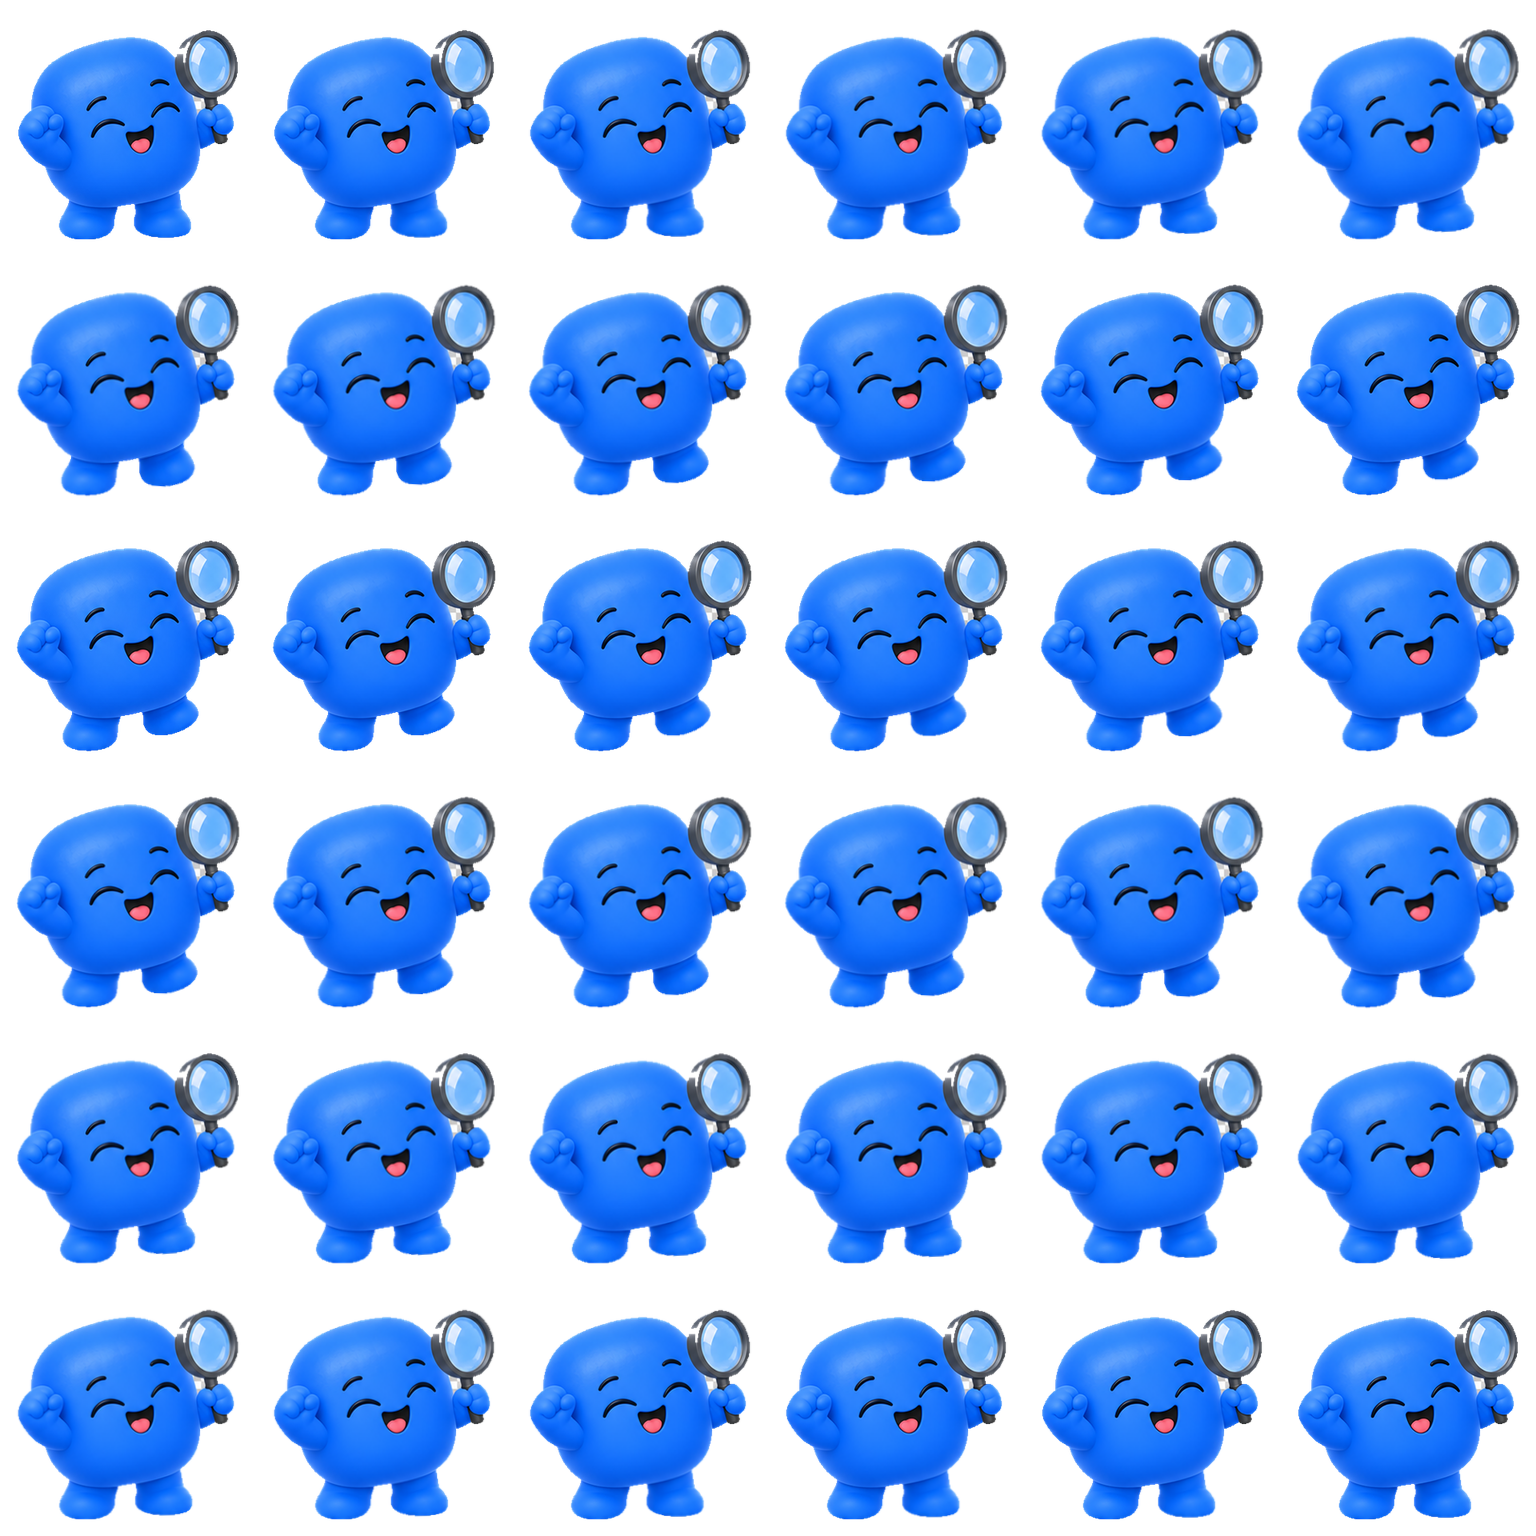
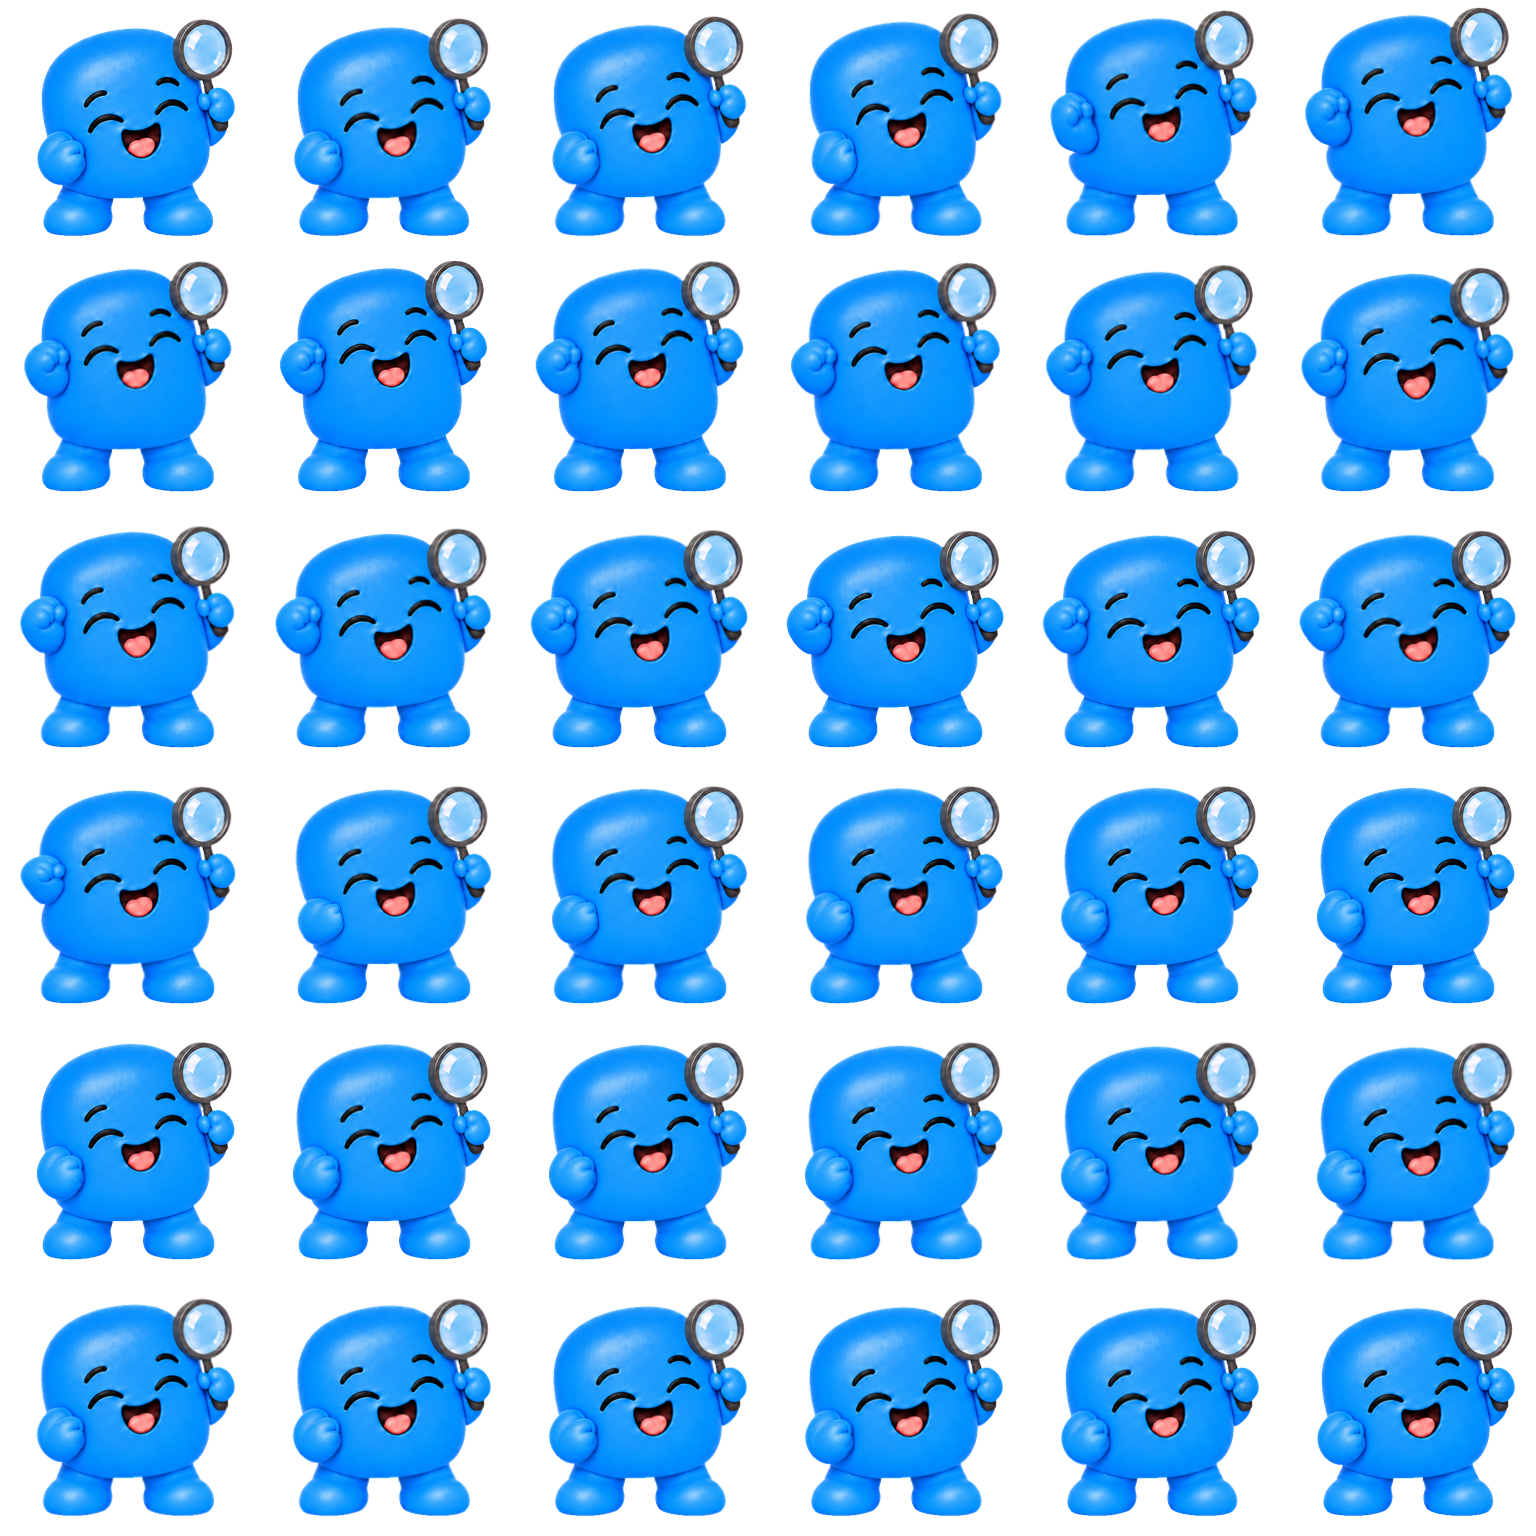
Give the cheer a real cycle, from the corrected success sheet
The celebration was the one state the approved artwork could not loop.
Only two of its four poses shared an expression, so the sequence was
[0,1,0]: out to one pose over twelve frames, back the same way over
twenty-four. That is the bounce the whole animation pass set out to
remove, and no amount of retiming fixes it — a two-pose cycle has only
one path and must retrace it.

The corrected sheet supplies four poses that hold one expression, so the
cheer now runs [0,1,2,3,0] and never repeats a frame. Measured as "how
far is each frame from the nearest frame that is not its own neighbour",
in units of one frame-to-frame step:

  before  0.42 steps  (worst 0.00 — bit-identical twins in the loop)
  after   1.33 steps  (worst 0.54)

The other three states sit at 1.92-2.25, so the cheer is now in the same
family; it stays the tightest of the four because a bounce genuinely
does pass near itself.

Sheets land one at a time, so each state picks its own source at build
time. The gate is the silhouette-to-torso ratio, which decides both
whether a square cell can hold the body at full size and the magnifier
at once, and whether optical flow can follow the magnifier between poses
instead of rendering two of them. The approved art measures 1.03-1.06
and the corrected success sheet 1.14; scan, greeting and concern still
measure 1.53-1.58 and keep the approved 320px keys until they are
redrawn. MAX_SILHOUETTE_RATIO sits at 1.4, clear of both groups.
[…]

diff --git a/scripts/mascot_keys.py b/scripts/mascot_keys.py
@@ -50,6 +50,20 @@ MIN_COLUMN = 3
 #: Narrower than this and a span is a keying artefact, not a character.
 MIN_POSE_WIDTH = 60
 
+#: How much wider than the torso the whole character is allowed to be before a
+#: sheet is unusable.
+#:
+#: This is the number the first four sheets failed on, and it is the one that
+#: decides whether a square cell can hold the body at full size and the
+#: magnifier at once. The approved poses sit at 1.03-1.06 — the magnifier is
+#: held in close — and the rejected sheets at 1.84-2.02, with the arm at full
+#: reach. Past roughly 1.4 there is no framing that keeps the character the
+#: size he ships at without cutting the magnifier off at the cell edge, and the
+#: magnifier travels so far between poses that optical flow renders two of
+#: them. The gate sits well clear of both groups so it never has to be argued
+#: about.
+MAX_SILHOUETTE_RATIO = 1.4
+
 
 def cutout(path):
     """Key the chroma green, using the escalation sheet's keyer exactly.
@@ -103,12 +117,13 @@ def _torso(alpha, radius):
 
 
 def _anchor(alpha, x0, x1):
-    """Where this pose stands: the centre of its feet, and the ground line."""
+    """Where this pose stands: the centre of its feet, the ground line, and the
+    highest pixel it reaches."""
     window = alpha[:, x0:x1]
     rows, _ = np.nonzero(window > 8)
     ground = rows.max() + 1
     _, feet_x = np.nonzero(window[ground - 40:ground, :] > 8)
-    return x0 + feet_x.mean(), ground
+    return x0 + feet_x.mean(), ground, rows.min()
 
 
 def _crop(keyed, pose, window, cell):
@@ -121,6 +136,30 @@ def _crop(keyed, pose, window, cell):
     top = int(round(pose['ground'] + window * (1 - FEET_FRACTION) - window))
     cropped = keyed.crop((left, top, left + window, top + window))
     return cropped.resize((cell, cell), Image.Resampling.LANCZOS)
+
+
+def sheet_ratio(path):
+    """How much wider than his torso the character is on this sheet.
+
+    Returned rather than asserted so the caller can fall back to older artwork
+    instead of failing the build: sheets land one at a time, and a state whose
+    replacement is not ready yet should keep the atlas it already has.
+    """
+    keyed = cutout(path)
+    alpha = np.asarray(keyed)[:, :, 3]
+    band_height = alpha.shape[0] // 2
+    ratios = []
+    for band in range(2):
+        strip = alpha[band * band_height:(band + 1) * band_height, :]
+        occupied = (strip > 8).sum(axis=0) >= MIN_COLUMN
+        for x0, x1 in _spans(occupied):
+            pose = strip[:, x0:x1]
+            rows, cols = np.nonzero(pose > 8)
+            silhouette = max(cols.max() - cols.min() + 1, rows.max() - rows.min() + 1)
+            torso = _torso(pose, 45)
+            if torso:
+                ratios.append(silhouette / torso)
+    return float(np.median(ratios)) if ratios else float('inf')
 
 
 def load_sheet(path, cell, expected=None):
@@ -141,10 +180,11 @@ def load_sheet(path, cell, expected=None):
         strip = alpha[top:bottom, :]
         occupied = (strip > 8).sum(axis=0) >= MIN_COLUMN
         for x0, x1 in _spans(occupied):
-            centre, ground = _anchor(strip, x0, x1)
+            centre, ground, highest = _anchor(strip, x0, x1)
             found.append({
                 'centre': centre,
                 'ground': top + ground,
+                'top': top + highest,
                 'bbox': x1 - x0,
                 'span': (x0, x1),
             })
@@ -173,6 +213,19 @@ def load_sheet(path, cell, expected=None):
             for pose in found]))
         # Too big on screen means the window was too tight: widen it.
         window = max(cell // 4, int(round(window * (measured / target) ** 0.6)))
+
+    # The torso sets the scale, but the tallest pose sets the floor: a cheer
+    # that reaches higher than the others would have its raised arms cut off at
+    # the top of the cell, which is the one thing worse than a slightly small
+    # character. Whichever is larger wins, so the size follows the artwork
+    # rather than a constant, and no sheet can clip whatever its poses do.
+    #
+    # The 2% is not slack for its own sake: sizing the window to exactly the
+    # measured reach leaves the topmost pixel on the cell's edge, and the
+    # Lanczos resize to the atlas cell then spreads it over the boundary. Two
+    # percent is about four points at this scale — invisible, and enough.
+    reach = max((pose['ground'] - pose['top']) for pose in found) * 1.02
+    window = max(window, int(np.ceil(reach / FEET_FRACTION)))
 
     poses = [_crop(keyed, pose, window, cell) for pose in found]
     torso = float(np.median([

diff --git a/scripts/interpolate-mascot-3d.py b/scripts/interpolate-mascot-3d.py
@@ -7,6 +7,7 @@ from pathlib import Path
 import cv2
 import numpy as np
 from PIL import Image
+from mascot_keys import MAX_SILHOUETTE_RATIO, load_sheet, sheet_ratio
 from mascot_motion import breathe, preview, validate_budget
 
 ROOT = Path(__file__).resolve().parents[1]
@@ -15,6 +16,25 @@ CELL = 256
 COUNT = 36
 GRID = 6
 NAMES = ['scan', 'greeting', 'success', 'concern']
+#: How many poses a replacement sheet carries, and the cycle each one enables.
+#: Asserted rather than discovered, so a sheet that silently loses a pose to a
+#: keying failure stops the build instead of quietly shortening a cycle.
+SHEETS = {
+    'scan': (4, [0, 1, 2, 3, 0], [8, 7, 6, 15]),
+    'greeting': (3, [0, 1, 2, 0], [12, 10, 14]),
+    'success': (4, [0, 1, 2, 3, 0], [7, 8, 8, 13]),
+    'concern': (4, [0, 1, 2, 3, 0], [7, 7, 8, 14]),
+}
+#: What each state falls back to while its replacement sheet is missing or
+#: fails the framing gate: the four approved 320px rows, and the cycles their
+#: pose counts allow. `success` is the reason any of this exists — two poses
+#: cannot cycle, so it bounces, and only new artwork fixes it.
+LEGACY = {
+    'scan': ([0, 1, 2, 3, 0], [8, 7, 6, 15]),
+    'greeting': ([1, 2, 3, 1], [13, 11, 12]),
+    'success': ([0, 1, 0], [12, 24]),
+    'concern': ([0, 1, 2, 0], [9, 11, 16]),
+}
 source = Image.open(OUT / 'mascot-atlas.png').convert('RGBA')
 yy, xx = np.mgrid[:CELL, :CELL].astype(np.float32)
 
@@ -47,21 +67,25 @@ def image(data):
 
 all_frames = []
 for row, name in enumerate(NAMES):
-    keys = [source.crop((col*320, row*320, (col+1)*320, (row+1)*320)).resize((CELL, CELL), Image.Resampling.LANCZOS) for col in range(4)]
+    # Replacement sheets land one state at a time, so each state picks its own
+    # source: the new artwork once it can actually be framed, the approved
+    # 320px row until then. Mixing the two is free — the player sizes every
+    # atlas in points from `GRID` and never reads a file's pixel dimensions.
+    sheet = OUT / f'source/{name}-keyframes.png'
+    ratio = sheet_ratio(sheet) if sheet.exists() else float('inf')
+    if ratio <= MAX_SILHOUETTE_RATIO:
+        poses, sequence, budgets = SHEETS[name]
+        keys, framing = load_sheet(sheet, CELL, poses)
+        print(f'{name}: {poses} new poses, silhouette {ratio:.2f}x torso, '
+              f'torso {framing["torso"]:.0f}px', flush=True)
+    else:
+        keys = [source.crop((col*320, row*320, (col+1)*320, (row+1)*320))
+                .resize((CELL, CELL), Image.Resampling.LANCZOS) for col in range(4)]
+        sequence, budgets = LEGACY[name]
+        why = 'no sheet yet' if ratio == float('inf') else f'silhouette {ratio:.2f}x torso'
+        print(f'{name}: approved 320px keys ({why})', flush=True)
     # Topology changes (closed -> open eyes or mouth) cannot be reliably inferred
-    # from only two pictures. Use consistent expressions instead of ghost faces.
-    sequence = {
-        'scan': [0, 1, 2, 3, 0],
-        'greeting': [1, 2, 3, 1],
-        'success': [0, 1, 0],
-        'concern': [0, 1, 2, 0],
-    }[name]
-    # The fourth concern key changes grip and expression; its return cannot
-    # be inferred without inventing an occluded hand. Use the three stable keys.
-    # Success temporarily has only two compatible poses; its 12/24 timing is
-    # deliberately asymmetric until the separate artwork upgrade supplies four.
-    budgets = {'scan': [8, 7, 6, 15], 'greeting': [13, 11, 12],
-               'success': [12, 24], 'concern': [9, 11, 16]}[name]
+    # from only two pictures, so every sequence holds one expression throughout.
     validate_budget(sequence, budgets, COUNT)
     frames = []
     for start, end, steps in zip(sequence, sequence[1:], budgets):

diff --git a/assets/mascot/3d/README.md b/assets/mascot/3d/README.md
@@ -15,40 +15,45 @@ The opaque source draft and old preview are not referenced by the application.
 Reference: user-provided `original_app_mascot.png`.
 Generated using the built-in image generation tool on 2026-09-10.
 
-## New keyframe sheets: measured, not yet usable
+## New keyframe sheets: one landed, three pending
 
-`source/scan-keyframes.png`, `greeting-`, `concern-` and `success-keyframes.png`
-are 1536x1024 sheets of 512px cells, generated to unblock two things: a 512px
-atlas cell, and a fourth `success` pose so cheering can cycle instead of
-bouncing between two. Neither is unblocked yet. Measured against the approved
-art they carry two defects that cropping cannot reach.
+`source/success-keyframes.png` is in use. The other three
+(`scan-`, `greeting-`, `concern-keyframes.png`) are measured and rejected, so
+those states keep the approved 320px keys until replacements arrive. Each state
+picks its own source at build time, so sheets can land one at a time.
 
-**The character is drawn too small in the cell.** The torso is 201-331px where
-the existing 512px sheets carry 379. Framed so the torso matches what ships,
-the magnifier falls outside the cell and is cut in half; framed so nothing is
-clipped, the character renders about 35% smaller than every other state, which
-is worse than the blur it was meant to fix.
+What decides it is one number: how much wider the whole silhouette is than the
+torso. That ratio is what governs whether a square cell can hold both the body
+at full size and the magnifier, and it is also what optical flow can follow —
+past roughly 1.4 the magnifier travels so far between poses that the flow loses
+it and renders two. `MAX_SILHOUETTE_RATIO` in `scripts/mascot_keys.py` is the
+gate; `sheet_ratio()` measures a sheet against it without failing the build.
 
-**The arms are extended too far.** This is the root of it. Across the approved
-poses the full silhouette is 1.03-1.06x the torso width — the magnifier is held
-in close. Across these sheets it is 1.84-2.02x. That ratio is what decides
-whether a square cell can hold both the body at full size and the magnifier,
-and at 2x it cannot. It also breaks the interpolation: the magnifier travels so
-far between poses that optical flow loses it and renders two of them in the
-in-between frames.
+| sheet | silhouette / torso | in use |
+| --- | --- | --- |
+| approved 320px art | 1.03-1.06 | the three fallbacks |
+| `success` (corrected) | 1.14 | yes |
+| `concern` | 1.57 | no |
+| `scan` | 1.53 | no |
+| `greeting` | 1.58 | no |
 
-What a regeneration needs, beyond the existing brief: **the magnifier and both
-hands stay close to the body, so the full silhouette is no wider than about
-1.1x the torso**, and the torso fills roughly three quarters of the cell, as it
-does in `source/escalation-keyframes.png`. Pose variety has to come from the
-body leaning, crouching and rising rather than from the arms reaching out.
+The three rejected sheets fail the same way the first `success` sheet did: the
+arms are extended too far, which both pushes the magnifier out of the cell and
+shrinks the body to about 35% less than every other state once framed so
+nothing clips. What a regeneration needs, beyond the existing brief: **the
+magnifier and both hands stay close to the body, so the full silhouette is no
+wider than about 1.1x the torso**, and the torso fills roughly three quarters
+of the cell, as it does in `source/escalation-keyframes.png`. Pose variety has
+to come from the body leaning, crouching and rising rather than from the arms
+reaching out. The corrected `success` sheet is the worked example.
 
-`scripts/mascot_keys.py` is ready for that artwork. It keys the green, finds
-each pose by the empty columns around it, and crops on the feet rather than on
-the nominal grid — needed because these sheets drift up to 53px vertically
-between cells, and because two `greeting` poses cross the cell boundary into
-each other. It solves the window size against a torso measured at the output
-scale, so the character lands the size he already is.
+`scripts/mascot_keys.py` keys the green, finds each pose by the empty columns
+around it, and crops on the feet rather than on the nominal grid — needed
+because these sheets drift up to 53px vertically between cells, and because two
+`greeting` poses cross the cell boundary into each other. It solves the window
+size against a torso measured at the output scale, so the character lands the
+size he already is, then widens the window if any pose reaches higher than that
+size allows, so a raised arm is never cut off at the top of the cell.
 
 ## Character invariants
 
@@ -77,8 +82,12 @@ that pose on wrap. In the first motion-only revision, scan follows `[0,1,2,3,0]`
 with budgets `[8,7,6,15]`; greeting `[1,2,3,1]` with `[13,11,12]`; concern
 `[0,1,2,0]` with `[9,11,16]`; worried/alarmed `[0,1,2,0]` with `[9,11,16]`.
 Concern's fourth original pose changes grip and mouth shape, so it is excluded.
-Success temporarily keeps its two compatible poses `[0,1,0]` with `[12,24]`;
-a genuine four-pose cycle belongs to the separate source-art upgrade.
+Success has since moved to `source/success-keyframes.png` and a genuine
+four-pose cycle, `[0,1,2,3,0]` with `[7,8,8,13]`. It was the one state the
+approved art could not cycle: only two of its four poses shared an
+expression, so `[0,1,0]` with `[12,24]` went out to one pose and came back
+the same way — the bounce this whole upgrade exists to remove. The other
+three states still run the budgets above from the approved keys.
 The mirrored return was dropped because replaying every gesture backwards reads
 as a rewind. Smoothstep and a single warped source avoid translucent second arms.
 A premultiplied periodic breathing field offsets head and torso by one eighth of
